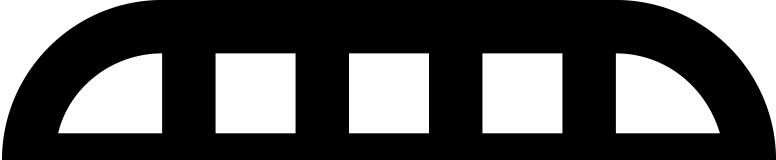
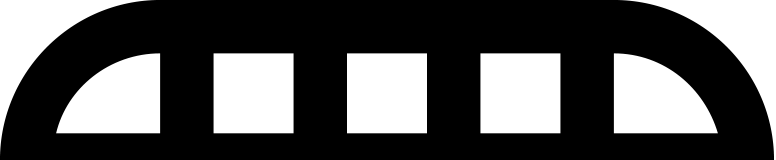
dj phonetic intro: implement v1

diff --git a/projects/djphonetic/intro.py b/projects/djphonetic/intro.py
@@ -2,6 +2,8 @@
 
 import argparse
 import inspect
+import librosa
+import numpy as np
 import os
 from PIL import Image, ImageFont, ImageDraw
 from pprint import pprint
@@ -13,18 +15,24 @@ parentdir = os.path.dirname(currentdir)
 parentdir = os.path.dirname(parentdir)
 sys.path.insert(0,parentdir)
 
+from lib.audio_utils import *
 from lib.io_utils import *
 from lib.math_utils import *
+from lib.processing_utils import *
 from lib.text_utils import *
+from lib.video_utils import *
 
 projectPath = "projects/djphonetic/"
 assetPath = f"{projectPath}assets/"
-outputPath = "output/djphonetic/"
+framesPath = "output/djphonetic/frames/{fn}.png"
+outputFile = "output/djphonetic/djphonetic-intro.mp4"
 
-makeDirectories(outputPath)
+makeDirectories(framesPath)
+removeFiles(framesPath.format(fn="*"))
 
 frameWidth = 1920
 frameHeight = 1080
+fps = 30
 multiplier = 2
 canvasWidth = frameWidth * multiplier
 canvasHeight = frameHeight * multiplier
@@ -32,6 +40,7 @@ canvasHeight = frameHeight * multiplier
 bgColor = "#ff3e3e"
 fontPath = f"{assetPath}subatomic.tsoonami.ttf"
 textColor = "#000000"
+wipeColor = "#000000"
 fontSizeTitle = 90 * multiplier
 fontSizeSubtitle = 72 * multiplier
 titleFont = ImageFont.truetype(font=fontPath, size=fontSizeTitle)
@@ -41,6 +50,9 @@ titleY = 0.1925 * canvasHeight
 logoY = 0.34 * canvasHeight
 tongueY = 0.461 * canvasHeight
 subtitleY = 0.802 * canvasHeight
+
+textAnimateLength = 48 * multiplier
+tongueAnimateLength = 72 * multiplier
 
 def addPositionsToText(phones, y, font):
     totalWidth = 0
@@ -58,28 +70,28 @@ def addPositionsToText(phones, y, font):
     return phones
 
 title = [
-    {"i": 0, "text": "D", "start": 0.388, "font": titleFont, "y": titleY},
-    {"i": 1, "text": "J ", "start": 0.718, "font": titleFont, "y": titleY},
-    {"i": 2, "text": "Pho", "start": 1.355, "font": titleFont, "y": titleY},
-    {"i": 3, "text": "net", "start": 1.64, "font": titleFont, "y": titleY},
-    {"i": 4, "text": "ic", "start": 1.82, "font": titleFont, "y": titleY}
+    {"i": 0, "text": "D", "start": roundInt(0.388 * 1000), "font": titleFont, "y": titleY},
+    {"i": 1, "text": "J ", "start": roundInt(0.718 * 1000), "font": titleFont, "y": titleY},
+    {"i": 2, "text": "Pho", "start": roundInt(1.355 * 1000), "font": titleFont, "y": titleY},
+    {"i": 3, "text": "net", "start": roundInt(1.64 * 1000), "font": titleFont, "y": titleY},
+    {"i": 4, "text": "ic", "start": roundInt(1.82 * 1000), "font": titleFont, "y": titleY}
 ]
 title = addPositionsToText(title, titleY, titleFont)
 subtitle = [
-    {"i": 6, "text": "De", "start": 2.26, "font": subtitleFont, "y": subtitleY},
-    {"i": 7, "text": "mo", "start": 2.631, "font": subtitleFont, "y": subtitleY}
+    {"i": 6, "text": "De", "start": roundInt(2.26 * 1000), "font": subtitleFont, "y": subtitleY},
+    {"i": 7, "text": "mo", "start": roundInt(2.631 * 1000), "font": subtitleFont, "y": subtitleY}
 ]
 subtitle = addPositionsToText(subtitle, subtitleY, subtitleFont)
 titles = title + subtitle
 images = {
     "mouth": {},
-    "teethTop": {"path": f"{assetPath}teeth_top.png", "y": logoY},
-    "teethBottom": {"path": f"{assetPath}teeth_bottom.png"},
     "tongue1": {"path": f"{assetPath}tongue_1.png"},
     "tongue2": {"path": f"{assetPath}tongue_2.png"},
     "tongue3": {"path": f"{assetPath}tongue_3.png"},
     "tongue4": {"path": f"{assetPath}tongue_4.png"},
-    "tongue5": {"path": f"{assetPath}tongue_5.png", "y": tongueY}
+    "tongue5": {"path": f"{assetPath}tongue_5.png", "y": tongueY},
+    "teethTop": {"path": f"{assetPath}teeth_top.png", "y": logoY},
+    "teethBottom": {"path": f"{assetPath}teeth_bottom.png"}
 }
 for k, p in images.items():
     if "path" in p:
@@ -90,9 +102,9 @@ for k, p in images.items():
         images[k]["x"] = (canvasWidth - w) * 0.5
 teethTop = images["teethTop"]
 images["mouth"] = {
-    "x": teethTop["x"],
+    "x": teethTop["x"] + 1,
     "y": teethTop["y"] + teethTop["h"],
-    "w": images["teethTop"]["w"],
+    "w": images["teethTop"]["w"] - 2,
     "h": images["teethTop"]["w"] - images["teethTop"]["h"] * 2
 }
 images["mouth"]["image"] = Image.new(mode="RGBA", size=(images["mouth"]["w"], images["mouth"]["h"]), color=textColor)
@@ -103,25 +115,171 @@ for i in range(4, 0, -1):
     k = f"tongue{i}"
     images[k]["y"] = tongue["y"] + (tongue["h"] - images[k]["h"])
 
-spokenAudio = f"{assetPath}dj_phonetic_demo_tetyys.com_RobotSoft_Five_120_60_reverb.wav"
-swipeAudio = f"{assetPath}slide-metal_01.wav"
-
-holdStart = 1.0
-openDuration = 0.4
-holdOpen = 1.0
-closeDuration = 0.4
-holdClose = 0.5
-wipeDuration = 0.5
-holdEnd = 1.0
-
-base = Image.new(mode="RGB", size=(canvasWidth, canvasHeight), color=bgColor)
 for k, p in images.items():
-    base.paste(p["image"], (roundInt(p["x"]), roundInt(p["y"])), p["image"])
+    images[k]["dx"] = p["x"]
+    images[k]["dy"] = p["y"]
+    images[k]["dw"] = p["w"]
+    images[k]["dh"] = p["h"]
 
-txt = Image.new("RGBA", base.size, (255, 255, 255, 0))
-d = ImageDraw.Draw(txt)
-for title in titles:
-    d.text((title["x"], title["y"]), title["text"], font=title["font"], fill=textColor)
-base.paste(txt, (0, 0), txt)
+# Load audio data
+spokenAudio = f"{assetPath}dj_phonetic_demo_tetyys.com_RobotSoft_Five_120_60_reverb.wav"
+y, sr = loadAudioData(spokenAudio)
+audioData = np.abs(librosa.stft(y))
+dataH, dataW = audioData.shape
+trimDataTop = int(0.1 * dataH)
+trimDataBottom = int(0.1 * dataH)
+dataH = dataH - trimDataTop - trimDataBottom
+dataBucketCount = 5
+bucketLength = int(dataH / dataBucketCount)
+dataBuckets = np.zeros((dataBucketCount, dataW))
+for i in range(dataBucketCount):
+    i0 = i * bucketLength + trimDataTop
+    i1 = i0 + bucketLength
+    dataBuckets[i] = np.mean(audioData[i0:i1], axis=0)
+dataMin, dataMax = (dataBuckets.min(), dataBuckets.max())
+# print(dataMin, dataMax)
 
-base.save(f"{outputPath}test.png")
+# timing config
+holdStart = int(1.0 * 1000)
+openDuration = int(0.4 * 1000)
+holdBeforeSpeak = int(1.0 * 1000)
+speakDuration = int(getDurationFromAudioData(y, sr) * 1000)
+textInDuration = int(0.25 * 1000)
+holdAfterSpeak = int(5.0 * 1000)
+
+# calculate duration and frames
+totalMs = holdStart + openDuration + holdBeforeSpeak + speakDuration + holdAfterSpeak
+totalFrames = msToFrame(totalMs, fps)
+totalFrames = int(ceilToNearest(totalFrames, fps))
+totalMs = frameToMs(totalFrames, fps)
+
+start = 0
+openStart = holdStart
+holdBeforeSpeakStart = openStart + openDuration
+speakStart = holdBeforeSpeakStart + holdBeforeSpeak
+holdAfterSpeakStart = speakStart + speakDuration
+end = holdAfterSpeakStart + holdAfterSpeak
+
+def drawFrame(fn, frame, total, prevFn=None):
+    if frame > total:
+        return
+    ms = frameToMs(frame, fps)
+    if ms > end:
+        return
+
+    if ms > holdAfterSpeakStart and prevFn is not None:
+        copyfile(prevFn, fn)
+        return
+
+    base = Image.new(mode="RGB", size=(canvasWidth, canvasHeight), color=bgColor)
+
+    mouthH = images["mouth"]["h"]
+    logoH = images["teethTop"]["w"]
+    teethH = images["teethTop"]["h"]
+
+    # mouth is closed
+    if ms <= openStart:
+        deltaY = (logoH - (teethH * 2)) * 0.5
+        images["teethTop"]["dy"] = images["teethTop"]["y"] + deltaY
+        images["teethBottom"]["dy"] = images["teethBottom"]["y"] - deltaY
+        images["mouth"]["dh"] = 0
+
+    # mouth is opening
+    elif ms < holdBeforeSpeakStart:
+        n = norm(ms, (openStart, holdBeforeSpeakStart), limit=True)
+        n = easeSinInOut(n)
+        deltaY = (logoH - (teethH * 2)) * 0.5
+        deltaY = deltaY * (1.0 - n)
+        images["teethTop"]["dy"] = images["teethTop"]["y"] + deltaY
+        images["teethBottom"]["dy"] = images["teethBottom"]["y"] - deltaY
+        images["mouth"]["dy"] = images["teethTop"]["dy"] + teethH
+        images["mouth"]["dh"] = images["teethBottom"]["dy"] - images["mouth"]["dy"]
+    
+    # mouth is open
+    else:
+        images["teethTop"]["dy"] = images["teethTop"]["y"]
+        images["teethBottom"]["dy"] = images["teethBottom"]["y"]
+        images["mouth"]["dh"] = images["mouth"]["h"]
+        images["mouth"]["dy"] = images["mouth"]["y"]
+
+    for i in range(1, 6):
+        k = f"tongue{i}"
+        image = images[k]
+        dy = image["y"]
+
+        if ms > speakStart and ms < holdAfterSpeakStart:
+            n = norm(ms, (speakStart, holdAfterSpeakStart), limit=True)
+            n = easeSinInOut(n)
+            dataIndex = i - 1
+            dataBucket = dataBuckets[4 - dataIndex]
+            valueIndex = roundInt((dataW - 1) * n)
+            value = dataBucket[valueIndex]
+            nvalue = norm(value, (dataMin, dataMax), limit=True)
+            deltaY = tongueAnimateLength * nvalue
+            dy = dy - deltaY
+
+        images[k]["dy"] = dy
+
+    for k, p in images.items():
+        if p["dw"] <= 0 or p["dh"] <= 0:
+            continue
+
+        image = p["image"]
+        if p["w"] != p["dw"] or p["h"] != p["dh"]:
+            image = image.resize((roundInt(p["dw"]), roundInt(p["dh"])))
+        base.paste(image, (roundInt(p["dx"]), roundInt(p["dy"])), image)
+
+    # draw text
+    if ms > speakStart:
+
+        for title in titles:
+
+            txtStart = speakStart + title["start"]
+            if ms <= txtStart:
+                continue
+            txtEnd = txtStart + textInDuration
+
+            tx = title["x"]
+            ty = title["y"]
+            tw = title["w"]
+            th = title["h"]
+            deltaY = 0
+
+            if ms < txtEnd:
+                n = norm(ms, (txtStart, txtEnd), limit=True)
+                n = easeSinInOut(n)
+                tw = roundInt(tw * n)
+                th = roundInt(th * n)
+                tx = tx + (title["w"] - tw) * 0.5
+                ty = ty + (title["h"] - th) * 0.5
+                deltaY = (1.0 - n) * textAnimateLength
+                ty = ty - deltaY
+
+            if tw <= 0 or th <= 0:
+                continue
+
+            txt = Image.new("RGBA", (title["w"], title["h"]), (255, 255, 255, 0))
+            d = ImageDraw.Draw(txt)
+            d.text((0, 0), title["text"], font=title["font"], fill=textColor)
+            xy = (roundInt(tx), roundInt(ty))
+            if tw != title["w"] or th != title["h"]:
+                txt = txt.resize((tw, th))
+            base.paste(txt, xy, txt)
+
+    base = base.resize((frameWidth, frameHeight))
+    base.save(fn)
+
+print(f"Total frames: {totalFrames}")
+# drawFrame("output/djphonetic/test.png", 60, totalFrames)
+
+prevFn = None
+for f in range(totalFrames):
+    frame = f + 1
+    fn = framesPath.format(fn=zeroPad(frame, totalFrames))
+    drawFrame(fn, frame, totalFrames, prevFn)
+    prevFn = fn
+    printProgress(frame, totalFrames)
+
+compileFrames(framesPath.format(fn="%s"), fps, outputFile, getZeroPadding(totalFrames), audioFile=None)
+
+print("Done")

diff --git a/lib/io_utils.py b/lib/io_utils.py
@@ -30,6 +30,9 @@ def appendToBasename(fn, appendString):
     i = len(fn) - extLen
     return fn[:i] + appendString + fn[i:]
 
+def copyfile(src, dst):
+    shutil.copyfile(src, dst)
+
 def downloadBinaryFile(url, filename, overwrite=False):
     if os.path.isfile(filename) and not overwrite:
         print("%s already exists." % filename)
